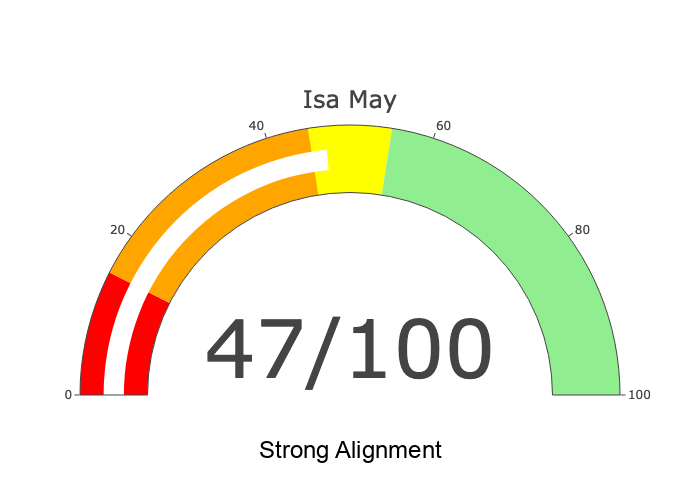
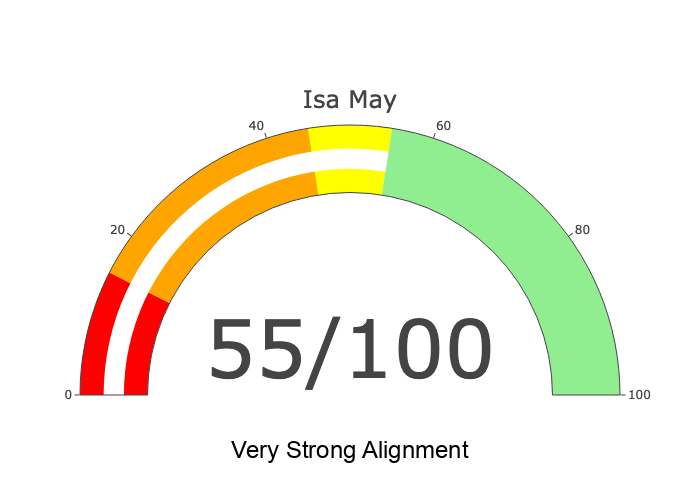
poc with score filter

Changed region(s): [[0.33, 0.87, 0.66, 0.93], [0.3, 0.63, 0.45, 0.78], [0.45, 0.27, 0.57, 0.36]]

diff --git a/app.py b/app.py
@@ -166,13 +166,10 @@ def main():
         message = f"Simulation complete! Score: {score_input}/100\nAlignment: {alignment_description}"
         image_path = show_gauge_chart(score_input, "Isa May", save_as_image=True)
         st.image(image_path, use_container_width=True)
-        st.markdown(f"<h3 style='text-align: center;'>{alignment_description}</h3>", unsafe_allow_html=True)
-        
 
-        send_telegram.send_to_telegram(message, image_path)
-        #os.remove(image_path)
-        
-        st.markdown(f"<h2 style='text-align: center;'>Total Score: {score_input}/100</h2>", unsafe_allow_html=True)
+        status = random.choice(["✅ In-Office", "🏠 Remote"])
+        st.markdown(f"<h3 style='text-align: center;'>{status}</h3>", unsafe_allow_html=True)
+
         show_top_skills({
             "Simulated Skill 1": max(score_input / 10, 0.1),
             "Simulated Skill 2": max(score_input / 10, 0.1),
@@ -181,6 +178,11 @@ def main():
             "Simulated Skill 5": max(score_input / 9, 0.1),
             "Simulated Skill 6": max(score_input / 10, 0.1)
         })
+
+        if score_input >= 55:
+            send_telegram.send_to_telegram(message, image_path)
+        #os.remove(image_path)
+        
         
 if __name__ == "__main__":
     main()
